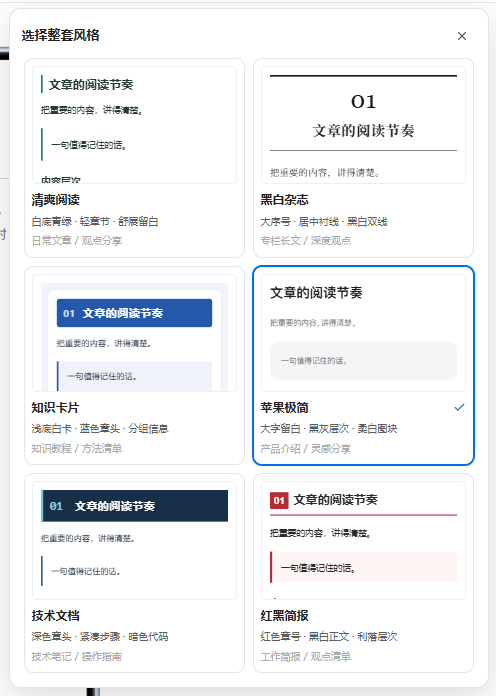
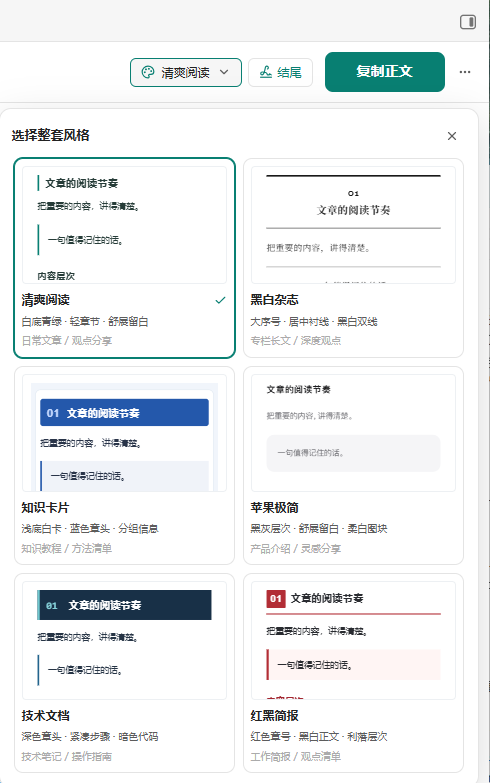
Refresh README preview screenshots

diff --git a/README.md b/README.md
@@ -17,7 +17,7 @@ Choose one of six ready-made layouts. Each preset styles headings, paragraphs, i
 | 技术文档 · Technical Docs | Dark chapter headers, compact steps, and dark code blocks | How-to guides and engineering notes |
 | 红黑简报 · Red and Black Brief | Red chapter numbers and rules with a compact text layout | Briefings and summaries |
 
-<img src="docs/images/preset-picker.png" width="420" alt="WeChat Layout preset picker showing the same sample in six layouts">
+<img src="docs/images/preset-picker.png" width="440" alt="WeChat Layout preset picker showing the same sample in six layouts">
 
 ## Typesetting and publishing features
 
@@ -29,8 +29,14 @@ Choose one of six ready-made layouts. Each preset styles headings, paragraphs, i
 
 ### Phone and iPad previews
 
-<img src="docs/images/phone-preview.png" width="222" alt="Phone preview of a WeChat article with a three-column table">
-<img src="docs/images/ipad-preview.png" width="390" alt="The same WeChat article and table in the iPad preview">
+**Phone · Knowledge Cards**
+
+<img src="docs/images/phone-preview.png" width="760" alt="The Knowledge Cards layout in the phone preview">
+
+**iPad · Apple Minimal**
+
+<img src="docs/images/ipad-preview.png" width="760" alt="The Apple Minimal layout in the iPad preview">
+
 
 ## Install
 
